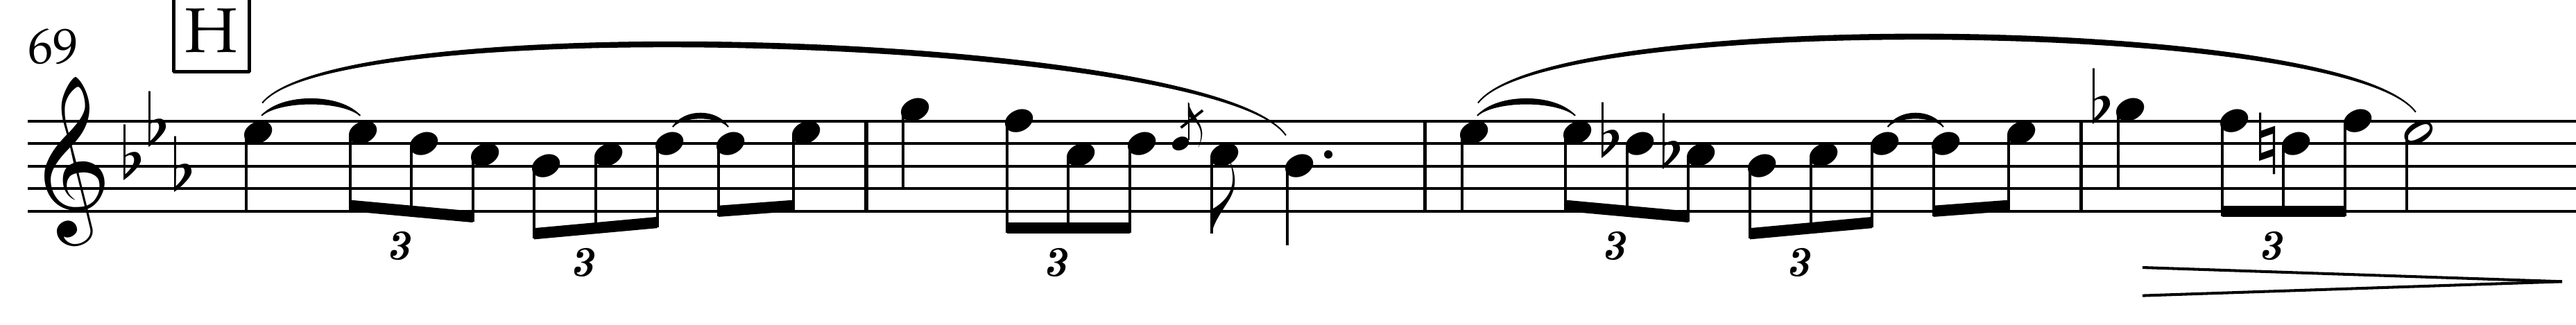
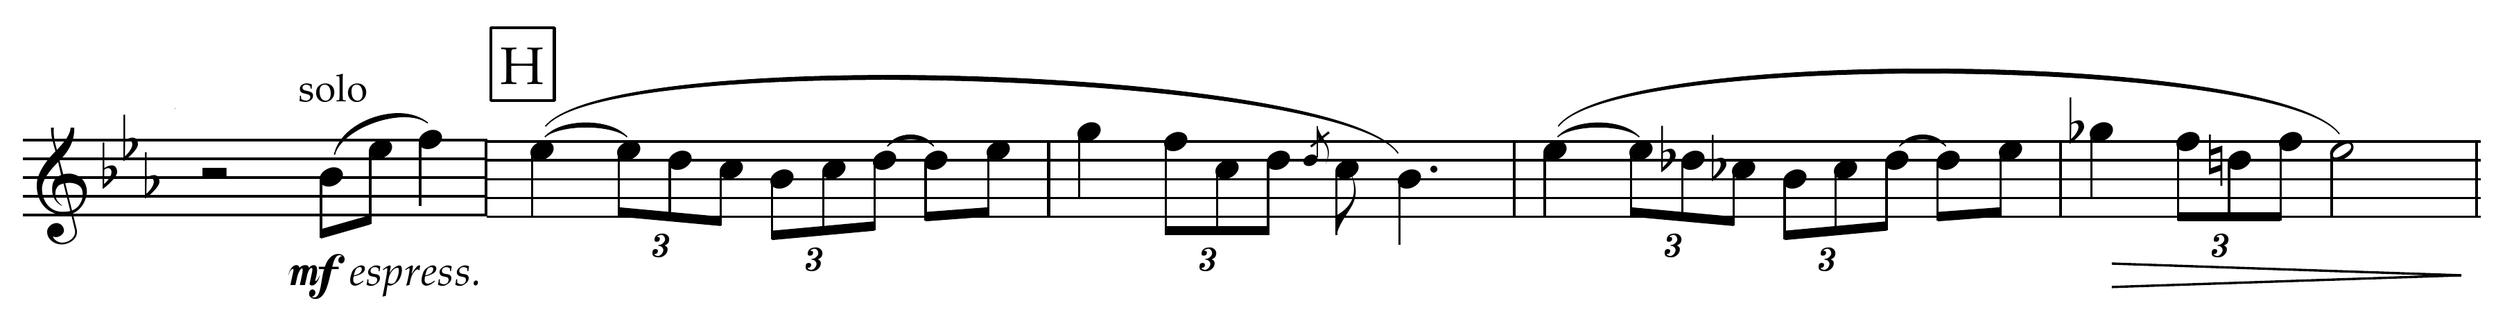
Forløp flute solo: start from the bar 68 pickup with its solo and mf espress. marks
Claude-Session: https://claude.ai/code/session_011W9MUxCfwUKuPsXdhgcirc

diff --git a/forlop.html b/forlop.html
@@ -98,7 +98,7 @@
   <div class="tabs" role="tablist" aria-label="Solo passages" data-solo-tabs hidden>
     <button type="button" role="tab" id="tab-1" aria-controls="solo-1" aria-selected="true"><span class="tab-n">Oboe</span><span class="tab-b">Bars 8–13</span></button>
     <button type="button" role="tab" id="tab-2" aria-controls="solo-2" aria-selected="false" tabindex="-1"><span class="tab-n">Alto saxophone</span><span class="tab-b">Bars 35–41</span></button>
-    <button type="button" role="tab" id="tab-3" aria-controls="solo-3" aria-selected="false" tabindex="-1"><span class="tab-n">Flute</span><span class="tab-b">Bars 69–72</span></button>
+    <button type="button" role="tab" id="tab-3" aria-controls="solo-3" aria-selected="false" tabindex="-1"><span class="tab-n">Flute</span><span class="tab-b">Bars 68–72</span></button>
   </div>
   <div class="zoom" role="group" aria-label="Zoom" data-zoom hidden>
     <button type="button" data-zoom-out aria-label="Zoom out">−</button>
@@ -115,8 +115,8 @@
     <div class="solo-scroll" tabindex="0" aria-label="Alto saxophone solo, scroll sideways when zoomed"><img data-keep src="assets/score/forlop-solo-alto.png" alt="Notation: Alto saxophones soli marked mp, bars 35 to 41, dividing at bar 41" loading="lazy"></div>
   </figure>
   <figure class="solo" id="solo-3" role="tabpanel" aria-labelledby="tab-3">
-    <figcaption>Flute I solo · bars 69–72</figcaption>
-    <div class="solo-scroll" tabindex="0" aria-label="Flute solo, scroll sideways when zoomed"><img data-keep src="assets/score/forlop-solo-flute.png" alt="Notation: Flute I solo, bars 69 to 72, in triplets" loading="lazy"></div>
+    <figcaption>Flute I solo, mf espressivo · bars 68–72</figcaption>
+    <div class="solo-scroll" tabindex="0" aria-label="Flute solo, scroll sideways when zoomed"><img data-keep src="assets/score/forlop-solo-flute.png" alt="Notation: Flute I solo marked mf espressivo, from the pickup in bar 68 through bar 72, in triplets" loading="lazy"></div>
   </figure>
 </section>
 
